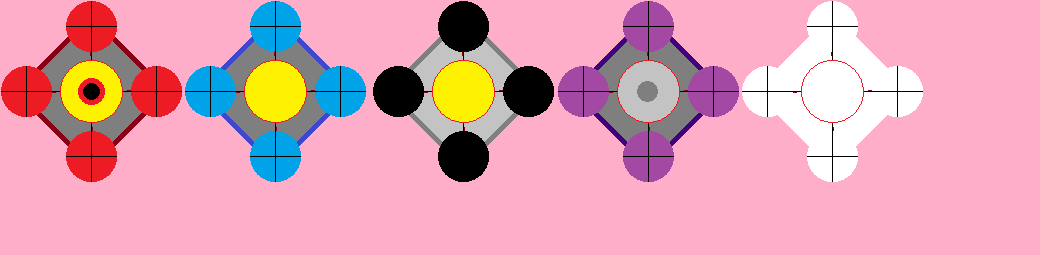
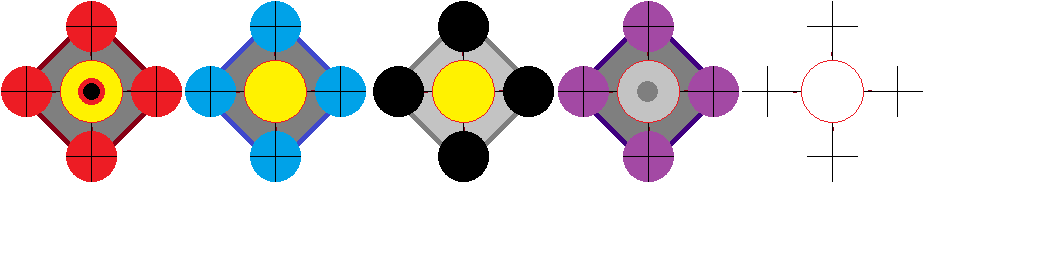
Adjustments to how projectiles work

diff --git a/spritelings.py b/spritelings.py
@@ -34,18 +34,20 @@ class cond_queue(object):
             self.size += 1
 
     def __call__(self):
+        #print('calling cond_queue')
         for eff in self.internals:
+            print('eff = ', eff, type(eff))
             eff(self.subject)
             if eff == None:
                 self.internals.remove(eff)
 
-    def apply(self, cond, *args):
-        for conds in self.internals:
-            if cond.isinstance(conds):
-                conds.extend(*args)
+    def apply(self, *args):
+        print('applying ', *args)
+        for arg in args:
+            if any(self.internals) == type(arg):
+                pass
             else:
-                self.internals.append(cond(*args))
-
+                self.internals.append(arg)
 
 class entity(pygame.sprite.Sprite):
     def __init__(self, img, pos):
@@ -89,11 +91,13 @@ class entity(pygame.sprite.Sprite):
         if self.temp < 0:
             self.temp += 1
             if self.temp < self.max_cold:
+                print(self, 'is frozen')
                 self.state = 'frozen'
                 self.velocity = (0,0)
         elif self.temp > 0:
             self.temp -= 1
             if self.temp > self.max_heat:
+                print(self, 'is burning')
                 self.state = 'burning'
 
         if self.state == 'frozen':
@@ -138,33 +142,56 @@ class actor(entity):
 #im trying to do these as nested classes so we can re-define them for individual classes of enemies. That way, we can
 # get different behaviors for different enemies
     class burn(object):
-        def __init__(self, magnitude, duration):
+        def __init__(self, subject, magnitude):
+            print('doin a freeze')
             self.magnitude = magnitude
-            self.duration = duration
+            self.duration = 128 * 3
+            self.subject = subject
 
-        def __call__(self, subject):
-            subject.hp -= self.magnitude
+        def __call__(self, room):
+            print('callin a freeze')
+            subject = self.subject
+            freeze_factor = (abs(subject.max_cold) - self.magnitude) / abs(subject.max_cold)
+            print(freeze_factor)
+            if freeze_factor >= 1:
+                print("I should be frozen")
+                subject.velocity = 0
+                room.overlays.add(subject.frozen())
+            x = subject.velocity[0]
+            y = subject.velocity[1]
+            x = x * freeze_factor
+            y = y * freeze_factor
+            subject.velocity = (x, y)
+            self.duration = 128 * 10
+
             self.duration -= 1
             if self.duration <= 0:
-                self = None
+                self.magnitude = 0
+                return False
+            return True
 
-        def extend(self, mag, dur):
+        def extend(self, mag):
             self.magnitude += mag
-            self.duration += dur
+            if self.duration < 128 * 3:
+                self.duration = 128 * 3
 
-    def melt(self, magnitude, duration):
+    class melt(object):
         pass
 
     class freeze(object):
         def __init__(self, subject, magnitude):
+            print('doin a freeze')
             self.magnitude = magnitude
             self.duration = 128*3
             self.subject = subject
 
         def __call__(self, room):
+            print('callin a freeze')
             subject = self.subject
-            freeze_factor = (self.magnitude - abs(subject.max_cold)) / abs(subject.max_cold)
+            freeze_factor = (abs(subject.max_cold) - self.magnitude) / abs(subject.max_cold)
+            print(freeze_factor)
             if freeze_factor >=1:
+                print("I should be frozen")
                 subject.velocity = 0
                 room.overlays.add(subject.frozen())
             x = subject.velocity[0]
@@ -187,10 +214,10 @@ class actor(entity):
                 self.duration = 128*3
 
 
-    def flash(self, duration):
+    class flash(object):
         pass
 
-    def stagger(self, duration):
+    class stagger(object):
         pass
 
     def affect(self, cond):

diff --git a/enemies.py b/enemies.py
@@ -250,7 +250,7 @@ class bouncer(enemy):
         super().__init__(basic_bouncer_img, pos)
         self.eye = None
         self.timer = 0
-        self.spell = missiles.fire_bolt
+        self.spell = missiles.ice_bolt
         self.core = self.rect.inflate(-96, -96)
         self.top = pygame.Rect(*self.rect.center, 43, 43)
 
@@ -337,17 +337,17 @@ class black_bouncer(bouncer):
         if pygame.Rect.colliderect(self.bottom, weapon.hitbox):
             weapon.velocity = (-weapon.velocity[0], 10)
             self.reflected.add(weapon)
-        if pygame.Rect.colliderect(self.left, weapon.hitbox):
+        elif pygame.Rect.colliderect(self.left, weapon.hitbox):
             weapon.velocity = (-10, -weapon.velocity[1])
             self.reflected.add(weapon)
-        if pygame.Rect.colliderect(self.top, weapon.hitbox):
+        elif pygame.Rect.colliderect(self.top, weapon.hitbox):
             weapon.velocity = (-weapon.velocity[0], -10)
             self.reflected.add(weapon)
-        if pygame.Rect.colliderect(self.right, weapon.hitbox):
+        elif pygame.Rect.colliderect(self.right, weapon.hitbox):
             weapon.velocity = (10, -weapon.velocity[1])
             self.reflected.add(weapon)
 
-        if pygame.Rect.colliderect(self.core, weapon.hitbox):
+        elif pygame.Rect.colliderect(self.core, weapon.hitbox):
             self.hp -= weapon.damage
             #self.rect.move_ip(weapon.knockback)
             if isinstance(weapon, missiles.missile):

diff --git a/missiles.py b/missiles.py
@@ -54,10 +54,11 @@ class missile(spritelings.entity):
         self.focus_cost = 0
         #self.charge_level = caster.charge_level
         self.caster = caster
-        self.hitbox = self.rect
+        self.hitbox = self.rect.inflate(-(self.rect.width*0.75), -(self.rect.height * 0.75))
 
     def update(self, room):
-        if self.velocity <= (1, 1):
+        if abs(self.velocity[0]) <= 1 and abs(self.velocity[1]) <= 1 :
+            #print(self, "has stopped")
             self.kill()
         self.rect.move_ip(self.caster.velocity)
         self.hitbox.center = self.rect.center
@@ -67,7 +68,6 @@ class missile(spritelings.entity):
                           self.velocity[1] * self.knockback_mult)
         for target in targets:
             target.react(self)
-        #self.kill()
 
     def charge(self, power):
         pass
@@ -143,14 +143,13 @@ class fire_bolt(bolt):
     def act(self, targets):
         super().act(targets)
         for target in targets:
-            target.affect(target.burn(5, 128))
+            target.affect(target.burn(target, 5))
 
 
 class ice_bolt(bolt):
     def __init__(self, caster):
         super().__init__(caster, cold_bolt)
         self.temp = -25
-
 
     def act(self, targets):
         super().act(targets)

diff --git a/room.py b/room.py
@@ -117,18 +117,18 @@ class room():
     def check_collision(self):
         player_hitlist_proj = pygame.sprite.groupcollide(self.enemyProjectiles, self.player, 0, 0, spritelings.collide_hitbox)
         if player_hitlist_proj:
-            print(player_hitlist_proj)
+            #print(player_hitlist_proj)
             for nme in player_hitlist_proj:
                 nme.act(player_hitlist_proj[nme])
 
         player_hitlist_nme = pygame.sprite.groupcollide(self.enemies, self.player, 0, 0, spritelings.collide_hitbox)
         if player_hitlist_nme:
-            print(player_hitlist_nme)
+            #print(player_hitlist_nme)
             for nme in player_hitlist_nme:
                 nme.act(player_hitlist_nme[nme])
 
         enemy_hitlist = pygame.sprite.groupcollide(self.playerProjectiles, self.enemies, 0, 0, spritelings.collide_hitbox)
         if enemy_hitlist:
-            print(enemy_hitlist)
+            #print(enemy_hitlist)
             for bullet in enemy_hitlist:
                 bullet.act(enemy_hitlist[bullet])

diff --git a/main.py b/main.py
@@ -87,7 +87,7 @@ while (running):
     #player_hud.update()
     #player_hud.show(disp)
 
-    '''for x in test_room.player:
+    for x in test_room.player:
         pygame.draw.rect(disp, green, x.rect, 4)
     for x in test_room.player:
         pygame.draw.rect(disp, red, x.hitbox, 4)
@@ -103,7 +103,7 @@ while (running):
         pygame.draw.rect(disp, red, z.rect, 7)
     for z in test_room.allProjectiles:
         pygame.draw.rect(disp, green, z.hitbox, 4)
-    '''
+
 
     test_room.update()
 
